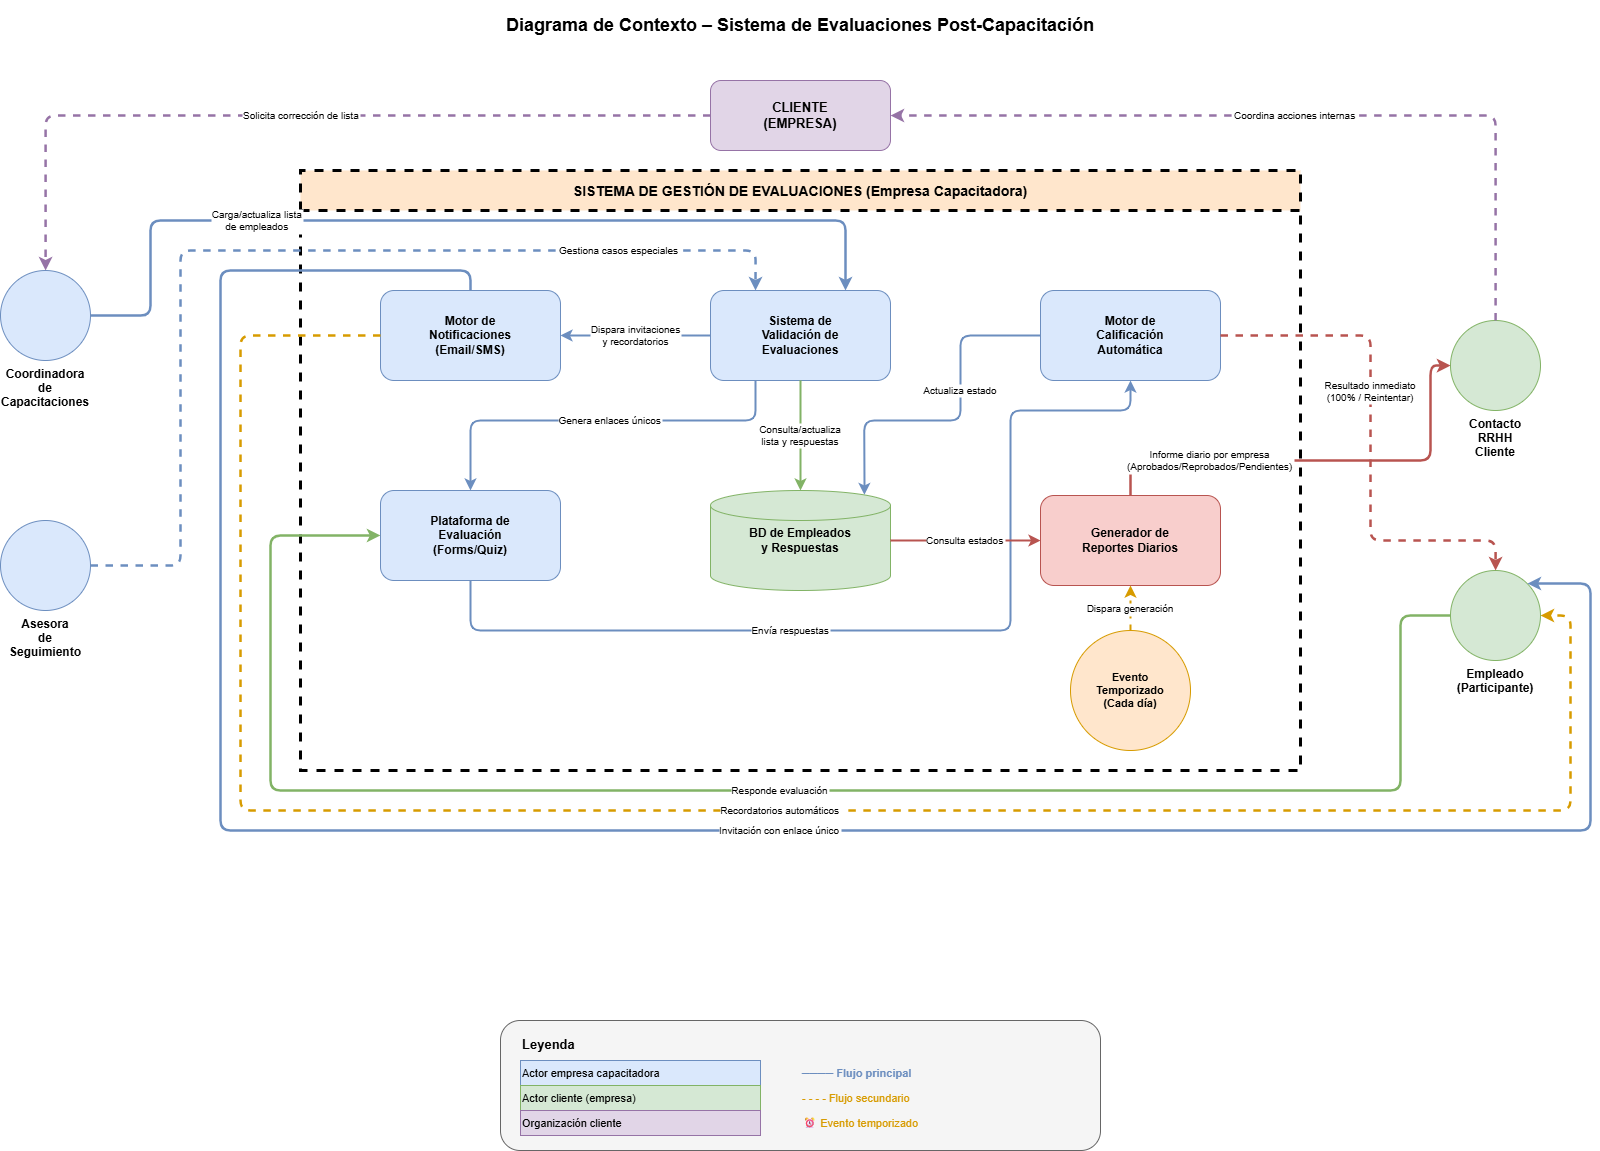
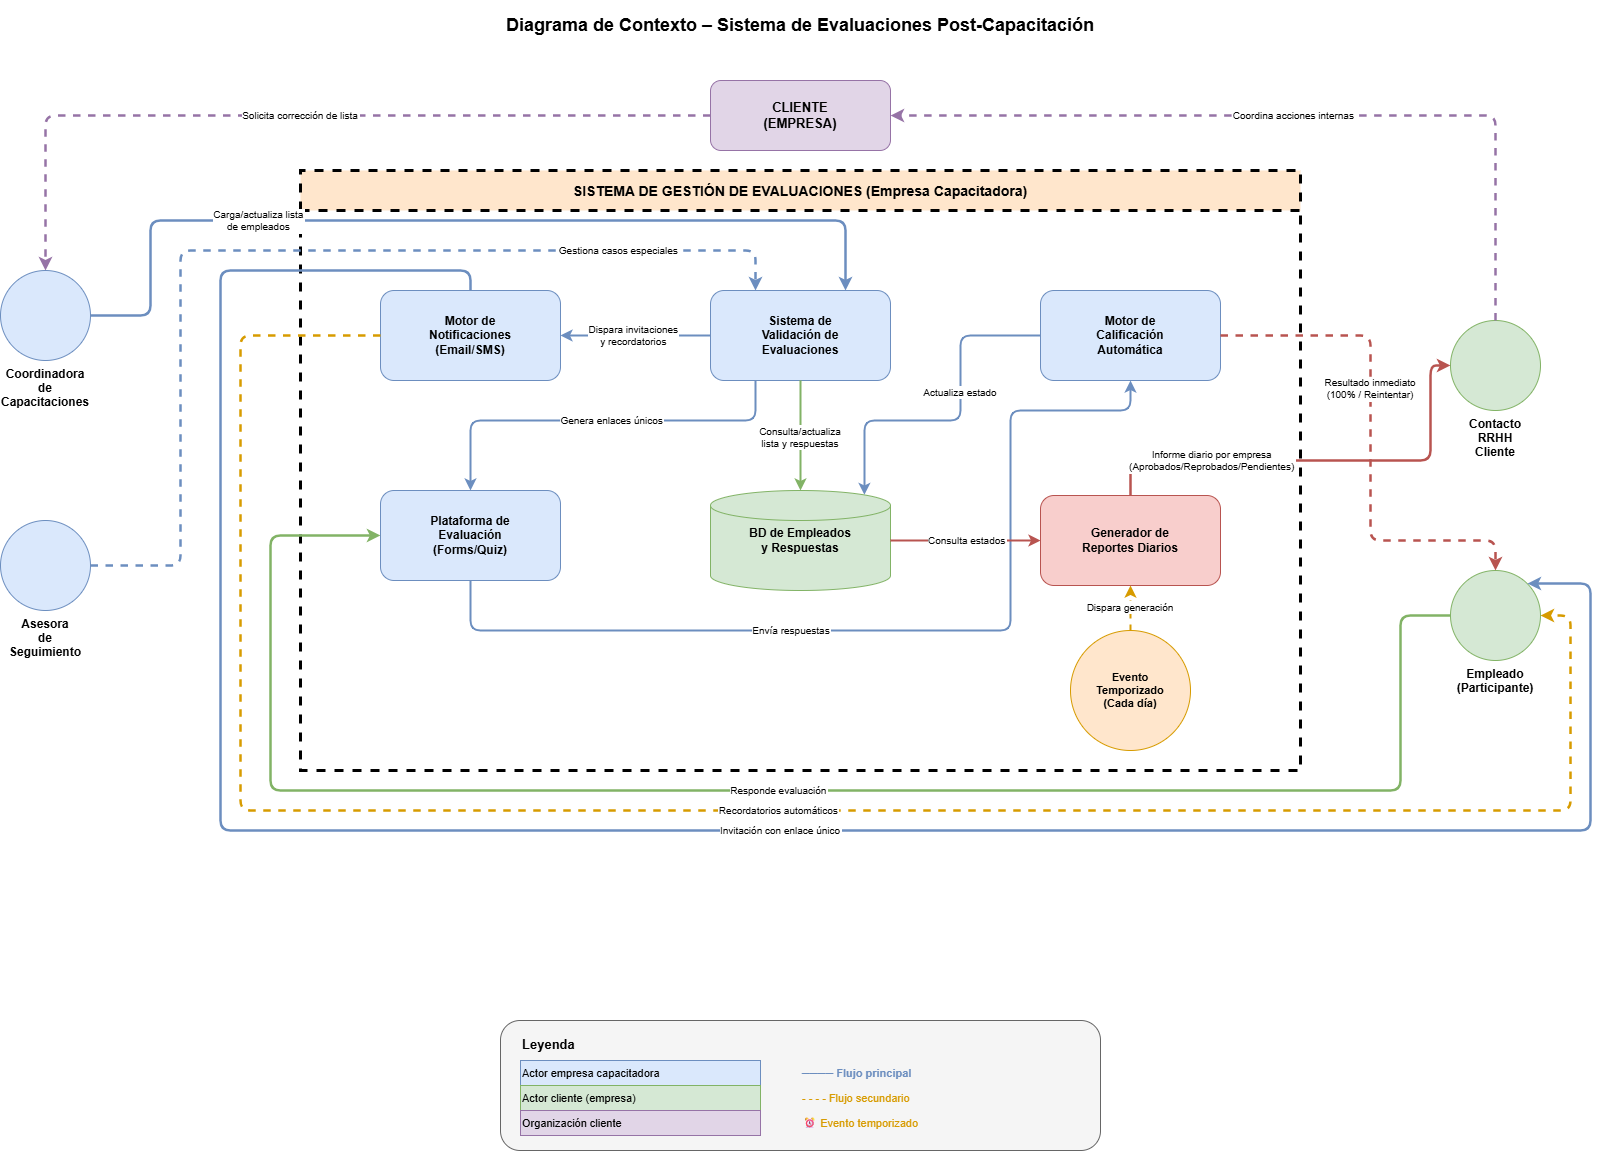
Cambios finales

diff --git a/entrega/informe.md b/entrega/informe.md
@@ -88,7 +88,8 @@ El modelo permite:
 
 Esto permite automatizar el proceso que actualmente se realiza manualmente mediante formularios y hojas de cálculo.
 ## 📈 Diagrama final entregado
-> (Inserte aquí una imagen o enlace al modelo-final.drawio / .asta / PDF)
+> ![Diagrama de contexto](./modelo-final-er.png)
+
 
 ## 📋 Tabla de actores, entidades o componentes (si aplica)
 
